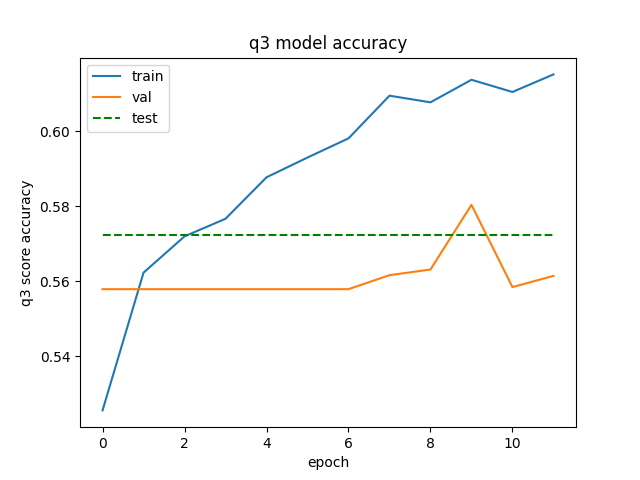
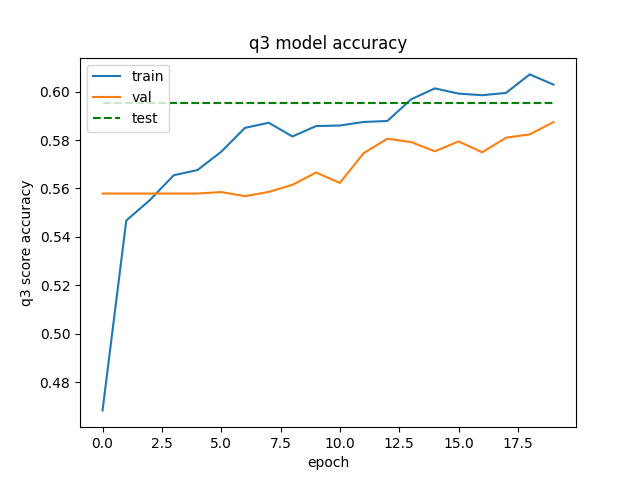
:)

diff --git a/predictor.py b/predictor.py
@@ -7,8 +7,6 @@ from tensorflow.keras import layers
 from tensorflow import keras
 
 tf.keras.utils.set_random_seed(812)  # sets seeds for base-python, numpy and tf
-tf.config.experimental.enable_op_determinism()
-os.environ['TF_DETERMINISTIC_OPS'] = '1'
 
 pd.set_option("future.no_silent_downcasting", True)
 
@@ -48,12 +46,8 @@ class PSSPredictor:
                 Dense(len(self.secondary_letters), activation='softmax'))
         ])
 
-        model.compile(
-            optimizer=keras.optimizers.Adam(
-                learning_rate=0.051000000000000004),
-            loss="categorical_crossentropy",
-            metrics=["accuracy", "mae", q3_score],
-        )
+        model.compile(optimizer='adam', loss='categorical_crossentropy', metrics=[
+                      'accuracy', 'mae', q3_score])
 
         return model
 
